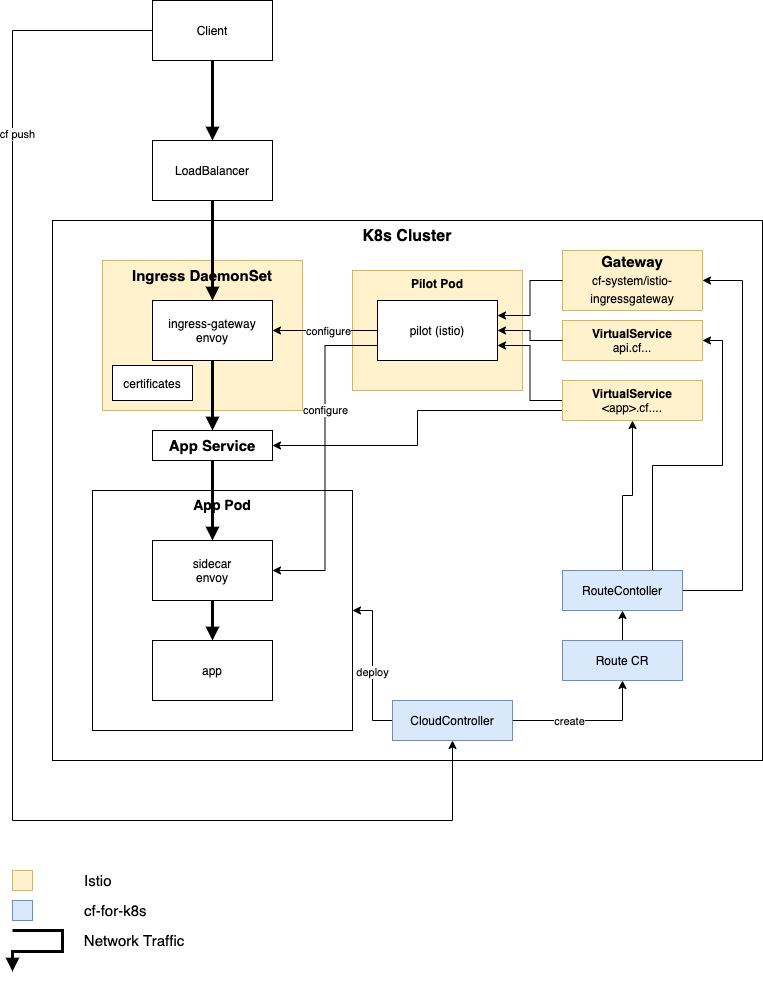
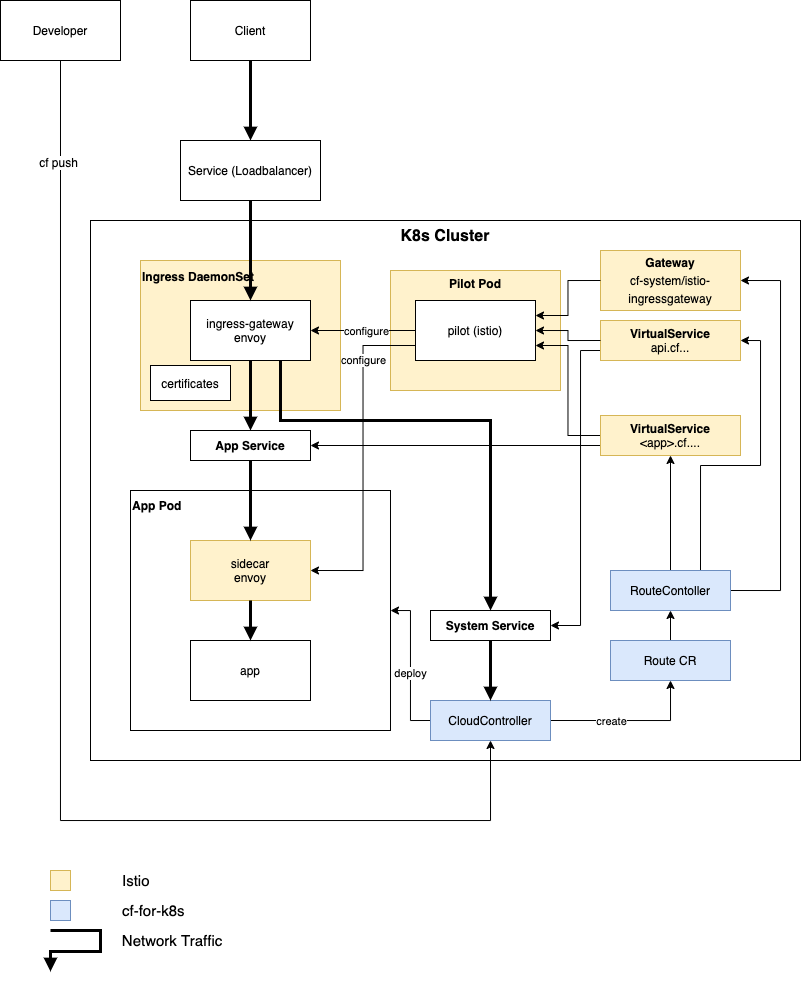
Add description to pictures

diff --git a/README.md b/README.md
@@ -4,10 +4,97 @@
 
 ![](doc/LogicalNetwork.png)
 
+| Artefact                                                                                                            | Description                                                                     |
+|---------------------------------------------------------------------------------------------------------------------|---------------------------------------------------------------------------------|
+| Client                                                                                                              | A client which would like to talk to the application                            |
+| [Service(LoadBalancer)](https://kubernetes.io/docs/tasks/access-application-cluster/create-external-load-balancer/) |  External Load Balancer                                                                         |
+| [Gateway](https://istio.io/docs/reference/config/networking/gateway/)                                               |                                                                                 |
+| [Virtual Service](https://istio.io/docs/reference/config/networking/virtual-service/)                               | How you route your traffic to a given destination. Refers to kubernetes service |
+| [App Service](https://kubernetes.io/docs/concepts/services-networking/service/)                                     | Kubernetes service, which is used to route the traffic to the application pod   |
+| app                                                                                                                 | The application itself                                                          |
+
 ## Physical Network Traffic
 
 ![](doc/Network.png)
 
-## Open Questions
+### Client
 
-* Which server entry is used. The one from `istio-system/ingressgateway` or the one on `cf-system/istio-ingressgateway` -> Only `cf-system/istio-ingressgateway` is used by virtual services.
+The client wants to use an application, which is running inside Cloud Foundry. The application is accessed using HTTP or HTTPs.
+
+### Developer
+
+The developer deploys the application to Cloud Foundry using `cf push`. During this action the Cloud controller builds the application and deploys it to kubernetes. Additionally the Cloud Controller creates a `Route CR`.
+
+### [Service(LoadBalancer)](https://kubernetes.io/docs/tasks/access-application-cluster/create-external-load-balancer/) 
+Exposes the Service externally using a cloud provider’s load balancer. An example configuration can be found [here](examples/service-istio-ingressgateway.yaml).
+
+### [IngressGateway](https://istio.io/docs/reference/config/networking/gateway/)
+
+The `IngressGateway`, is responsible to route the network traffic to different locations like system services of applications. Istio is using [Envoy](https://www.envoyproxy.io/) for this purpose. Envoy is configured by Pilot(see below). In cf-for-k8s, only `VirtualServices` are used to configure the routes. For details see Routes below.
+
+The `IngressGateway` is implemented as [`DaemonSet`](https://istio.io/docs/reference/config/networking/gateway/). A `DaemonSet` ensures that all Nodes run a copy of this gateway.
+
+An example configuration can be found [here](examples/istio-ingressgateway.yaml)
+
+### [Pilot](https://istio.io/docs/ops/deployment/architecture/#pilot)
+
+Pilot converts high level routing rules (e.g. `Gateways` or `VirtualServices`) that control traffic behavior into Envoy-specific configurations, and propagates them to the sidecars at runtime. 
+
+### App Service
+
+An example configuration can be found [here](examples/app-service.yaml)
+
+### Application
+
+This is the application, which is deployed by the developer and used by the client. The inbound traffic is routed through the Envoy, which is running in a sidecar.
+
+#### [Sidecar](https://istio.io/docs/reference/config/networking/sidecar/)
+Every instance(replica) of an app has a sidecar Envoy, which runs in parallel with the app. These Envoys monitors everything about the application.
+
+### [Cloud Controller](https://docs.cloudfoundry.org/concepts/architecture/cloud-controller.html)
+
+The Cloud Controller in Cloud Foundry (CF) provides REST API endpoints for clients (developers) to access the system.
+
+### RouteController && Route CR [WIP]
+The Architecture Decision to use `Route CRD` and `RouteController` can be found [here](https://github.com/cloudfoundry/cf-k8s-networking/blob/master/doc/architecture-decisions/0010-route-crd-and-kubebuilder-instead-of-metacontroller.md).
+According to the [CF4k8s Networking - Route CRD Proposal](https://docs.google.com/document/d/1DF7eTBut1I74w_sVaQ4eeF74iQes1nG3iUv7iJ7E35U/) RouteController watches for updates to the `Route CR` and translates these into `Kubernetes Service` and `Istio VirtualService` objects.
+
+### Routes
+
+#### [Gateway](https://istio.io/docs/reference/config/networking/gateway/)
+
+Cloud Foundry uses one single `Gateway` to route the network traffic.
+
+#### [Virtual Service for System Services](https://istio.io/docs/reference/config/networking/virtual-service/)
+
+During installation a `VirtualService` is created for each system service:
+* Cloud Controller `api.cf...`
+* Log Cache `log-cache.cf...`
+* UAA `uaa.cf...`, `*.uaa.cf...`, `login.cf...`, `*.login.cf...`
+
+
+#### [Virtual Service for Applications](https://istio.io/docs/reference/config/networking/virtual-service/)
+
+For each application a `VirtualService` is created. An example configuration can be found [here](examples/app-virtualservice.yaml)
+
+This `VirtualService` is also responsible to add the required HTTP headers (e.g. `CF-App-Id`).
+
+Each `VirtualService` refers to a kubernetes service. [`DestinationRules`](https://istio.io/docs/concepts/traffic-management/#destination-rules) are also part of Istio traffic management. Using destination rules you can configure what happens to traffic for that destination (e.g. traffic policy).
+
+*NOTE:* Envoy first evaluates route rules in virtual services to determine if a particular subset is being routed to. If so, only then will it activate any destination rule policies corresponding to the subset. Consequently, Istio only applies the policies you define for specific subsets in destination rules if you explicitly routed traffic to the corresponding subset.
+
+
+
+## Open topics
+
+* Looking at what the Envoy's (sidecar and gateway) configuration looks like
+
+### Debugging
+
+* Looking into the TCP layer?
+* Looking at k8s networking (in particular when traffic gets routed to another worker node?
+* Looking at the traffic passing through Envoys
+
+### Open Questions
+
+* Istio `istio-system/ingressgateway` is not used.
